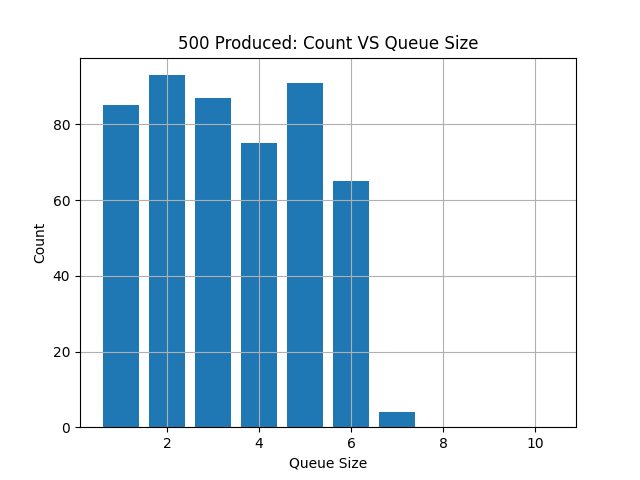
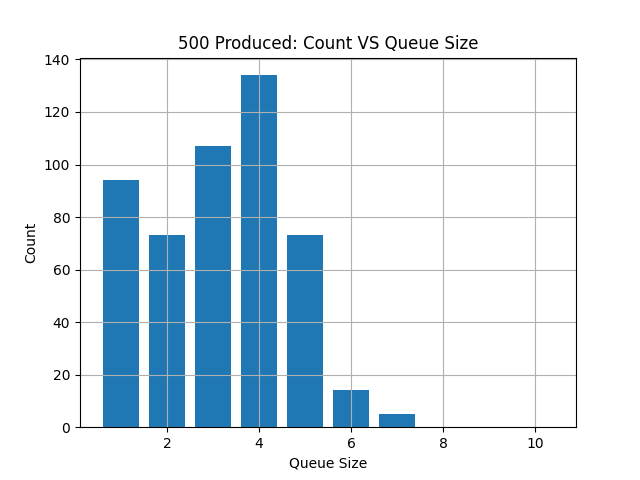
added a second semaphore

diff --git a/lesson_04/prove/prove.py b/lesson_04/prove/prove.py
@@ -1,22 +1,6 @@
-"""
-Course: CSE 251 
-Lesson: L04 Prove
-File:   prove.py
-Author: <Add name here>
-
-Purpose: Assignment 04 - Factory and Dealership
-
-Instructions:
-
-- Complete the assignments TODO sections and DO NOT edit parts you were told to leave alone.
-- Review the full instructions in Canvas; there are a lot of DO NOTS in this lesson.
-"""
-
 import time
 import threading
 import random
-
-# Include cse 251 common Python files
 from cse251 import *
 
 # Global Constants - DO NOT CHANGE
@@ -73,19 +57,19 @@ class Queue251():
     def get(self):
         return self.items.pop(0)
 
-
 class Factory(threading.Thread):
-    """ This is a factory.  It will create cars and place them on the car queue """
-
-    def __init__(self, queue, semaphore):
+    def __init__(self, queue, produce_semaphore, consume_semaphore):
         threading.Thread.__init__(self)
         self.queue = queue
-        self.semaphore = semaphore
-
+        self.produce_semaphore = produce_semaphore
+        self.consume_semaphore = consume_semaphore
 
     def run(self):
         for i in range(CARS_TO_PRODUCE):
             car = Car()
+
+            # Acquire the produce_semaphore to check if the queue is at its maximum size
+            self.produce_semaphore.acquire()
 
             # Check if the queue is at its maximum size before putting the car
             while self.queue.size() >= MAX_QUEUE_SIZE:
@@ -93,27 +77,32 @@ class Factory(threading.Thread):
 
             self.queue.put(car)
             print(f'Factory created: {car.info()}')
-            self.semaphore.release()
+
+            # Release the consume_semaphore to indicate that a new car is available
+            self.consume_semaphore.release()
 
         # Signal the dealer that there are no more cars
         final_car = "No more cars"
         self.queue.put(final_car)
-        self.semaphore.release()
+
+        # Release the consume_semaphore to ensure the dealer can exit
+        self.consume_semaphore.release()
 
 
 class Dealer(threading.Thread):
-    """ This is a dealer that receives cars """
-    
-    def __init__(self, queue, semaphore, queue_stats, queue_stats_lock):
+    def __init__(self, queue, produce_semaphore, consume_semaphore, queue_stats, queue_stats_lock):
         threading.Thread.__init__(self)
         self.queue = queue
-        self.semaphore = semaphore
+        self.produce_semaphore = produce_semaphore
+        self.consume_semaphore = consume_semaphore
         self.queue_stats = queue_stats
         self.queue_stats_lock = queue_stats_lock
 
     def run(self):
         for i in range(CARS_TO_PRODUCE):
-            self.semaphore.acquire()
+            # Acquire the consume_semaphore to check if a car is available in the queue
+            self.consume_semaphore.acquire()
+
             car = self.queue.get()
 
             if car == "No more cars":
@@ -126,6 +115,9 @@ class Dealer(threading.Thread):
             with self.queue_stats_lock:
                 self.queue_stats[self.queue.size()] += 1
 
+            # Release the produce_semaphore to indicate that the queue has space for a new car
+            self.produce_semaphore.release()
+
             # Last statement in this for loop - don't change
             time.sleep(random.random() / (SLEEP_REDUCE_FACTOR))
 
@@ -135,18 +127,15 @@ def main():
 
     log.start_timer()
     
-    
-    semaphore = threading.Semaphore(0)
+    produce_semaphore = threading.Semaphore(MAX_QUEUE_SIZE)
+    consume_semaphore = threading.Semaphore(0)
     queue = Queue251()
-
 
     queue_stats_lock = threading.Lock()
     queue_stats = [0] * MAX_QUEUE_SIZE
 
-
-    factory = Factory(queue, semaphore)
-    dealer = Dealer(queue, semaphore, queue_stats, queue_stats_lock)
-
+    factory = Factory(queue, produce_semaphore, consume_semaphore)
+    dealer = Dealer(queue, produce_semaphore, consume_semaphore, queue_stats, queue_stats_lock)
 
     factory.start()
     dealer.start()
@@ -154,13 +143,11 @@ def main():
     factory.join()
     dealer.join()
 
-
     log.stop_timer(f'All {CARS_TO_PRODUCE} cars have been created. ')
 
     xaxis = [i for i in range(1, MAX_QUEUE_SIZE + 1)]
     plot = Plots()
-    plot.bar(xaxis, queue_stats, title=f'{sum(queue_stats)} Produced: Count VS Queue Size', x_label='Queue Size', y_label='Count', filename='Production count vs queue size.png')
-
+    plot.bar(xaxis, queue_stats, title=f'{sum(queue_stats)} Produced: Count VS Queue Size', x_label='Queue Size', y_label='Count', filename='Production Count vs Queue Size.png')
 
 
 if __name__ == '__main__':
